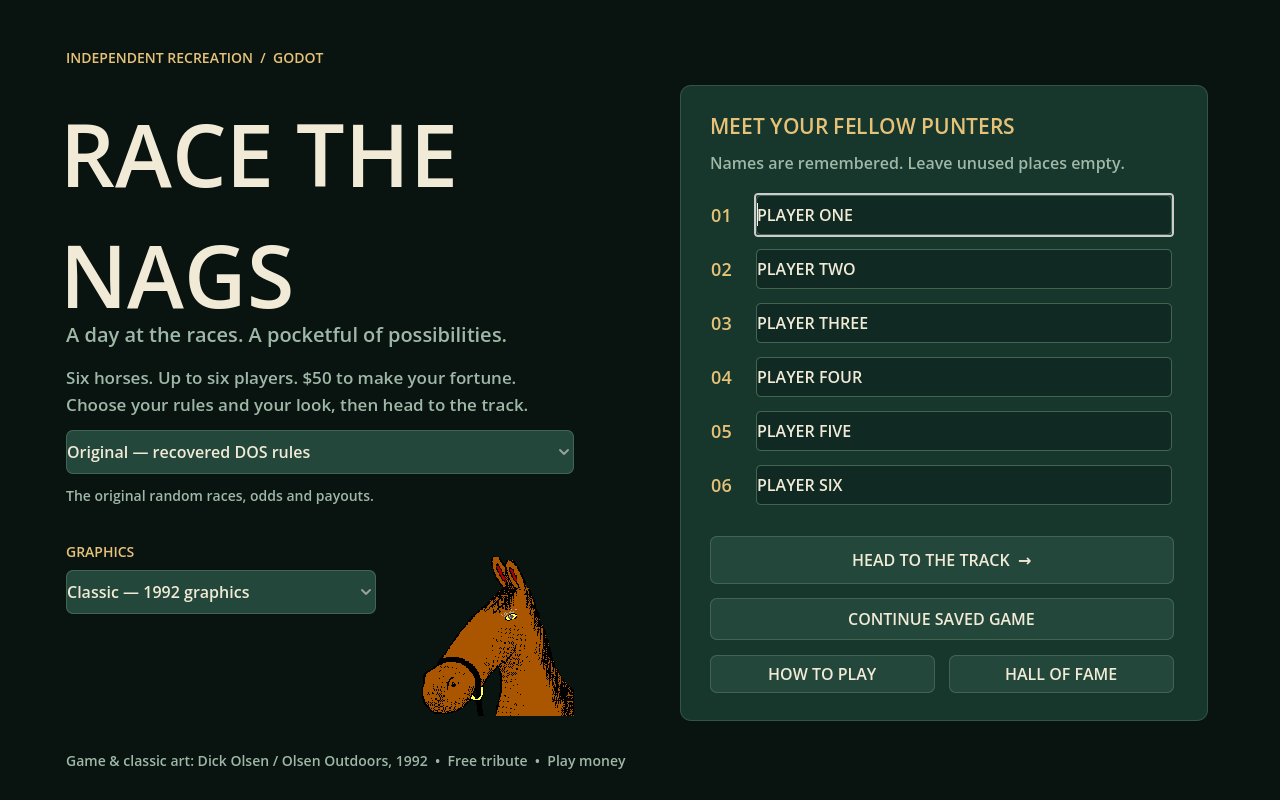
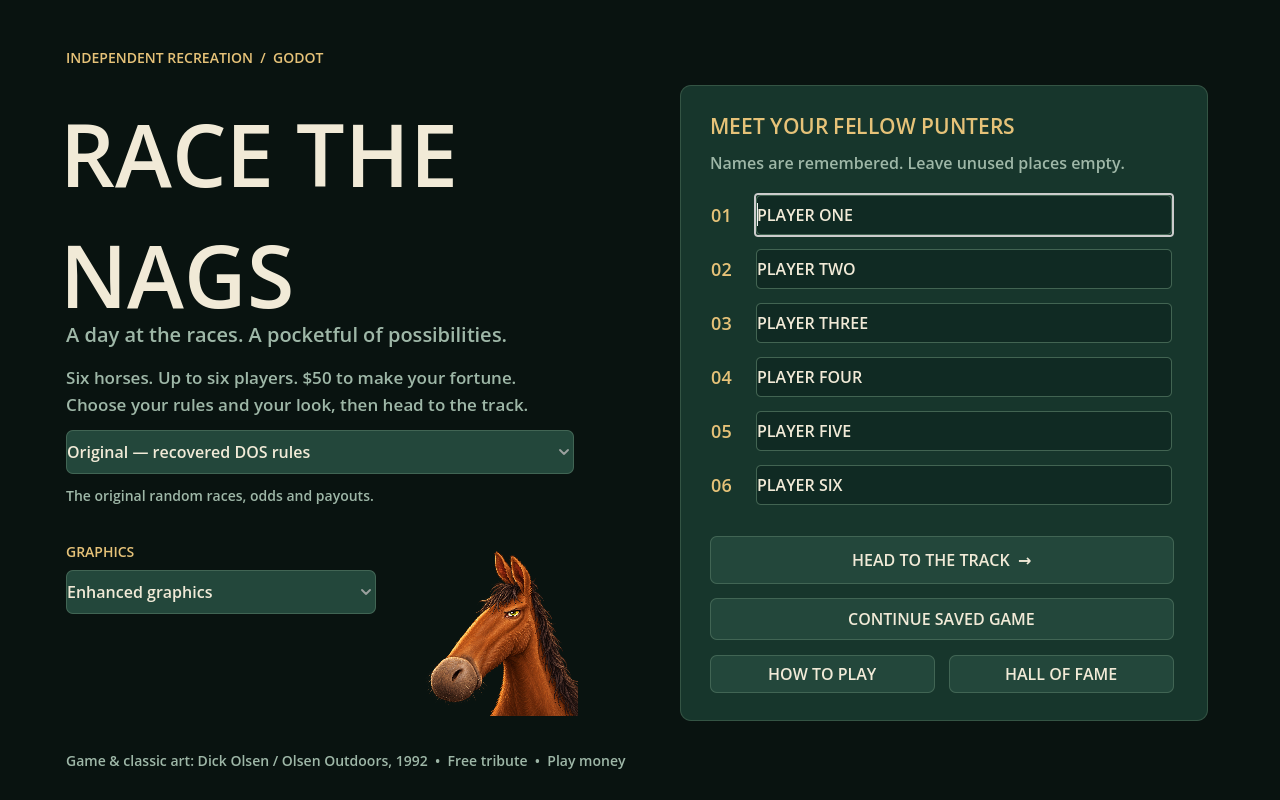
Restore the creator-supplied enhanced graphics and original atlas crops

Changed region(s): [[0.3125, 0.6875, 0.4688, 0.9062], [0.0625, 0.7188, 0.1875, 0.75]]

diff --git a/web/credits.html b/web/credits.html
@@ -2,8 +2,8 @@
 <html lang="en"><head><meta charset="utf-8"><meta name="viewport" content="width=device-width,initial-scale=1"><title>Credits and preservation notice — Race the Nags</title><style>:root{color-scheme:dark}body{max-width:760px;margin:48px auto;padding:0 24px;background:#0b1d18;color:#f5edda;font:18px/1.7 system-ui,sans-serif}a{color:#efc56d}h1,h2{line-height:1.25}h2{margin-top:36px}p{color:#c2d1c6}</style></head>
 <body><a href="./">← Back to the game</a><h1>A tribute to Race the Nags</h1>
 <p>Original game and Classic graphics: <strong>Richard “Dick” Olsen / Olsen Outdoors, 1992</strong>. We offer this independent recreation free of charge, without advertising or paid access, to help keep a classic game alive. No affiliation or endorsement is claimed.</p>
-<p>Classic graphics preserve the original portrait and 30 horse/rider images. The Illustrated and Animated artwork, code and new horse-name roster are newly authored. The original DOS programs are not distributed.</p>
-<h2>Rights and licences</h2><p>Original graphics retain their original rights and are <strong>excluded from the MIT licence</strong>. No additional permission for their reuse in this reconstruction has been documented. Attribution, free distribution and our takedown commitment do not establish permission or make the images public domain.</p>
-<p>The new implementation, new artwork and roster are MIT-licensed. <a href="THIRD_PARTY_NOTICES.md">Read the full attribution and distribution notice</a> or view the <a href="https://archive.org/details/RaceTheNags">historical Internet Archive listing</a>.</p>
+<p>Classic graphics preserve the original portrait and 30 horse/rider images. Enhanced graphics restore the portrait and sprite sheets created and supplied by the project creator. Animated uses code-drawn horses and that enhanced portrait. Code and the new horse-name roster are newly authored. The original DOS programs are not distributed.</p>
+<h2>Rights and licences</h2><p>Original graphics retain their original rights. Original and creator-supplied enhanced images are <strong>excluded from the MIT grant</strong>. No additional permission for their reuse in this reconstruction has been documented. Attribution, free distribution and our takedown commitment do not establish permission or make the images public domain.</p>
+<p>The new implementation, code-drawn animation, alternative SVG studies and roster are MIT-licensed. <a href="THIRD_PARTY_NOTICES.md">Read the full attribution and distribution notice</a> or view the <a href="https://archive.org/details/RaceTheNags">historical Internet Archive listing</a>.</p>
 <h2>Rightsholders, heirs and estates</h2><p>If you own or represent rights to the game or graphics, including as a rightful heir or estate representative, <a href="https://github.com/rknell/race-the-nags/issues/new?title=Rights%20or%20takedown%20request">contact the maintainer</a>. We will promptly remove the affected material from the hosted game, maintained public repository and release downloads, or take the project down if requested.</p>
 <p>Please identify the material and your relationship to its rights. Do not post private identity documents publicly; initial contact can be used to arrange further communication. We welcome corrections to credits. We cannot recall copies already downloaded or held in third-party caches.</p></body></html>

diff --git a/web/index.html b/web/index.html
@@ -22,7 +22,7 @@
 <p class="note">Linux &middot; Windows &middot; macOS &middot; Web<br>No account needed. Best on a desktop or laptop.</p>
 </div><figure><img src="screenshot.png" alt="Race the Nags title screen with player setup and Original and Remastered game options" width="1280" height="800"><figcaption>Old-school racing. A fresh run around the track.</figcaption></figure></section>
 <section class="details" aria-label="Game features">
-<div class="card"><h2>Choose your era</h2><p>Original racing rules or Remastered form, stamina and consistency. Classic 1992 sprites, new illustrated artwork or animated horses.</p></div>
+<div class="card"><h2>Choose your era</h2><p>Original racing rules or Remastered form, stamina and consistency. Classic 1992 sprites, the creator’s enhanced graphics or animated horses.</p></div>
 <div class="card"><h2>Back your judgement</h2><p>Win, Place and Show, plus Quinellas, Exactas and Trifectas in Remastered. Race by race or let an automatic strategy run.</p></div>
 <div class="card"><h2>Bring your friends</h2><p>One to six players sharing a screen. Racing records, remembered names and save/continue between visits.</p></div>
 </section>

diff --git a/tools/check-publication.py b/tools/check-publication.py
@@ -15,8 +15,8 @@ def path_digest(path):
     return hashlib.sha256(path.read_bytes()).hexdigest() if path.is_file() else None
 
 problems = []
-if len(allowed_art) != 31:
-    problems.append("Expected exactly 31 selected heritage images")
+if len(allowed_art) != 34:
+    problems.append("Expected 31 Classic images and three owner-supplied enhanced images")
 for name in filter(None, tracked):
     p = Path(name)
     if name.startswith(('application/', 'evidence/', '.tools/', 'dist/', 'release/')):
@@ -38,4 +38,4 @@ for name in filter(None, tracked):
 if problems:
     print('\n'.join(problems), file=sys.stderr)
     sys.exit(1)
-print('Publication check: only the 31 explicitly selected heritage images are allowed; DOS files and private evidence excluded.')
+print('Publication check: only the 31 Classic and three owner-supplied Enhanced images are allowed; DOS files and private evidence excluded.')

diff --git a/tools/release.py b/tools/release.py
@@ -24,7 +24,7 @@ def zip_tree(source, target):
 
 def main():
     parser = argparse.ArgumentParser(description=__doc__)
-    parser.add_argument('--version', default='0.1.1')
+    parser.add_argument('--version', default='0.1.2')
     args = parser.parse_args()
     version = args.version.removeprefix('v')
     if not version or any(c not in '0123456789abcdefghijklmnopqrstuvwxyzABCDEFGHIJKLMNOPQRSTUVWXYZ.-' for c in version):

diff --git a/README.md b/README.md
@@ -3,7 +3,8 @@
 A horse racing game inspired by Dick Olsen's 1992 **Race the Nags**. The public
 version contains a new GDScript implementation and 217 newly composed horse
 names. Classic graphics preserve the original portrait and horse sprites;
-Illustrated and Animated use new artwork. The original DOS programs, raw asset
+Enhanced uses the portrait and sprite sheets supplied by the project creator.
+Animated uses code-drawn horses and the enhanced portrait. The original DOS programs, raw asset
 files and decompiled code are not included.
 
 **[Play in your browser](https://rknell.github.io/race-the-nags/)** ·
@@ -22,7 +23,7 @@ Minimum stake is $2; the maximum is $1,000 or the available bankroll.
 - **Remastered:** persistent speed, stamina and consistency, recent form, and
   additional Quinella, Exacta, Trifecta and Box Trifecta bets. See
   [Remastered rules](docs/form-mode.md).
-- **Graphics:** credited Classic (1992) sprites, new Illustrated sprites, or code-drawn
+- **Graphics:** credited Classic (1992) sprites, the creator-supplied Enhanced sprites, or code-drawn
   Animated horses. Graphics can change without affecting a race or its RNG.
 - **Automatic racing:** choose a horse-selection strategy, bet type, race count
   and stake. A $0 stake uses 10% of the bankroll, with a $2 minimum.
@@ -85,14 +86,19 @@ Olsen Outdoors, 1992. Selected files and their hashes are documented in
 `godot/assets/heritage/provenance.json`. Original rights are retained; no
 additional permission for this reconstruction has been documented.
 
-Illustrated/Animated artwork is new. The new SVG assets are defined in
-`tools/generate_artwork.py`. See [artwork and provenance](docs/asset-recovery.md).
+Enhanced restores the project creator's supplied portrait, gallop sheet and
+fallen-rider sheet, byte-for-byte. Animated keeps the enhanced portrait with
+code-drawn horses. These files are recorded in the same provenance manifest
+and are separate from MIT. The alternative SVG studies remain in source under
+`godot/assets/public/`, but do not replace the Enhanced graphics.
+See [artwork and provenance](docs/asset-recovery.md).
 
 This is a free, non-commercial preservation tribute without endorsement. If a
 rightsholder, rightful heir or estate representative contacts the maintainer,
 we will promptly remove the affected material or take the project down as
 requested. [Contact and full notice](THIRD_PARTY_NOTICES.md).
 
-The new implementation, new artwork, roster and documentation use **MIT**.
-The original images and their reproduction in screenshots do not. Free hosting
+The new implementation, code-drawn animation, SVG studies, roster and
+documentation use **MIT**. Original and supplied enhanced images, and their
+reproduction in screenshots, are excluded from that grant. Free hosting
 and a takedown commitment do not establish permission to reuse those assets.

diff --git a/docs/asset-recovery.md b/docs/asset-recovery.md
@@ -13,12 +13,27 @@ files, manuals and decompiled evidence remain excluded. These images are not
 MIT-licensed; no additional permission for reuse in this reconstruction has
 been documented. See [preservation and takedown notice](../THIRD_PARTY_NOTICES.md).
 
-## New artwork
+## Enhanced graphics restored from the supplied files
 
-Illustrated uses the independently drawn SVG atlas and horse badge defined in
-`tools/generate_artwork.py`. Animated uses the track's code-drawn horses and
-new badge. Run the generator to regenerate new SVGs without reading DOS files.
-New SVG assets under `godot/assets/public/` are MIT-licensed.
+The project creator's three enhanced images are preserved byte-for-byte under
+`godot/assets/heritage/enhanced/`:
 
-Graphics preferences remain compatible with earlier builds. Switching styles
-does not change racing rules, player state or RNG consumption.
+- `nag_transparent_endhanced.png`: the enhanced title portrait, also used by Animated.
+- `horse_sheet_enhanced.png`: 24 gallop frames arranged in four columns and six rows.
+- `pony_sheet_enhanced.png`: the six fallen-rider poses, with the original crop
+  positions and padding restored to avoid including arrow graphics.
+
+Their SHA-256 hashes are recorded in the provenance manifest. They are excluded
+from the MIT grant alongside the original imagery, with the same preservation
+and takedown notice. No enhanced images were regenerated or replaced.
+
+## Code-drawn animation and SVG studies
+
+Animated uses the track's code-drawn moving horses and the supplied enhanced
+portrait. Alternative independently drawn SVG studies remain under
+`godot/assets/public/`, with their generator in `tools/generate_artwork.py`.
+These SVG studies are not used in place of the supplied Enhanced graphics.
+The code-drawn animation and SVG studies are MIT-licensed.
+
+Saved graphics preference keys are unchanged. Switching styles does not change
+racing rules, player state or RNG consumption.

diff --git a/THIRD_PARTY_NOTICES.md b/THIRD_PARTY_NOTICES.md
@@ -16,7 +16,12 @@ Historical reference: https://archive.org/details/RaceTheNags
 The **Classic — 1992 graphics** option uses the original title portrait and
 30 horse/rider images decoded from the supplied NAG.PCX and PONY.IMG files.
 The selected images are in `godot/assets/heritage/`; `provenance.json` identifies
-their source and SHA-256 hashes. The original DOS programs, raw PCX/IMG files,
+their source and SHA-256 hashes. The **Enhanced graphics** option restores the
+three enhanced images created and supplied by the project creator: the horse
+portrait, gallop sheet and fallen-rider sheet. They are preserved byte-for-byte
+under `godot/assets/heritage/enhanced/`. Animated horses use that same enhanced
+portrait. The supplied enhanced images are also excluded from the MIT grant;
+underlying original rights and the takedown commitment remain applicable. The original DOS programs, raw PCX/IMG files,
 manuals, extracted horse-name roster and decompiled reference evidence are not
 included in the public repository or releases.
 
@@ -46,8 +51,8 @@ We cannot recall copies already downloaded or held in third-party caches.
 
 ## New implementation and artwork
 
-The new GDScript implementation, independently drawn Illustrated/Animated
-artwork, new 217-horse roster, tools and documentation are MIT-licensed.
+The new GDScript implementation, code-drawn horse animation, alternative SVG
+artwork studies, new 217-horse roster, tools and documentation are MIT-licensed.
 The project's non-commercial tribute intent does not add a non-commercial
 restriction to that MIT-licensed code and new artwork. Original assets are
 excluded from MIT as described above.

diff --git a/docs/release-notes.md b/docs/release-notes.md
@@ -1,4 +1,4 @@
-A playable Godot reconstruction of Race the Nags with Original and Remastered rules, restored Classic graphics plus new Illustrated and Animated styles, persistent racing history, manual and automatic betting, and local multiplayer for up to six players.
+Restores the project creator’s enhanced graphics that were mistakenly replaced in the public build. **Enhanced graphics** once again uses the supplied title portrait, gallop sheet and fallen-rider sheet, unchanged. **Animated horses** also uses the supplied enhanced portrait. Classic graphics and all racing rules remain available.
 
 ## Play
 
@@ -15,9 +15,10 @@ Browser saves are local to that browser and website, and may be lost if site dat
 ## Attribution
 
 Inspired by Race the Nags by Richard “Dick” Olsen / Olsen Outdoors (1992).
-Classic graphics restore 31 original portrait and horse/rider images, credited
-to the original creator. They retain their original rights and are excluded
-from MIT. The new code, new artwork and new roster use MIT. No DOS programs,
+Classic uses 31 original portrait and horse/rider images, credited to the
+original creator. Enhanced restores three images supplied by the project
+creator. Original and enhanced images are excluded from MIT. The new code,
+code-drawn animation, SVG studies and roster use MIT. No DOS programs,
 raw PCX/IMG files or decompiled code are included.
 
 This free, non-commercial tribute includes a rightsholder/heir/estate takedown

diff --git a/docs/publishing.md b/docs/publishing.md
@@ -73,9 +73,9 @@ would need their saves migrated to its application-specific storage path.
 
 ## Licensing and publication checks
 
-The new implementation, new artwork and stable roster use MIT. The 31 selected
-Classic images retain their original rights and are excluded from MIT. Their
-hashes are allowlisted; other original material, DOS binaries and decompiled
+The new implementation, code-drawn animation, SVG studies and stable roster use
+MIT. The 31 Classic images and three creator-supplied Enhanced images are
+excluded from MIT. Their hashes are allowlisted; other original material, DOS binaries and decompiled
 evidence remain excluded. See `THIRD_PARTY_NOTICES.md` for the free tribute and
 rightsholder/heir takedown commitment.
 `tools/check-publication.py` checks the tracked source and generated packs before

diff --git a/docs/reverse-engineering.md b/docs/reverse-engineering.md
@@ -3,9 +3,9 @@
 The Original ruleset was informed by private analysis of the 1992 DOS game.
 The public runtime is new GDScript and does not execute or distribute that game.
 Original binaries, extracted assets, raw decompilations and private analysis
-records are excluded. The public stable and Illustrated/Animated artwork are
-newly authored; Classic retains the selected original graphics under separate
-rights notices.
+records are excluded. The public stable is newly authored. Classic retains
+selected original graphics and Enhanced restores the project creator’s supplied
+images, under separate rights notices. Animated uses code-drawn horses.
 
 Original rules preserve the recovered odds, movement, falls, finish threshold
 and payout formulas. Godot uses its own RNG rather than the Borland sequence.

diff --git a/docs/validation.md b/docs/validation.md
@@ -7,7 +7,7 @@ multi-horse tickets, game-over handling and the bazooka feature.
 The new roster preserves stable IDs and roster size. Seeded Original fixtures
 keep their established movement, finish order, payouts and RNG state; only
 horse names change. Graphics tests exercise restored Classic and new
-Illustrated assets, switching during a race, preference persistence and the
+owner-supplied Enhanced assets, switching during a race, preference persistence and the
 code-drawn animation mode.
 
 The release workflow also checks public source exclusions, exported artwork,
